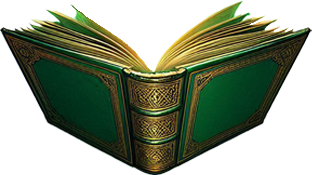
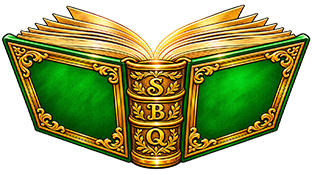
Update Grim Book artwork and paginate DM roster

diff --git a/components/homepage-activity-board.tsx b/components/homepage-activity-board.tsx
@@ -1,7 +1,7 @@
 "use client";
 
 import Link from "next/link";
-import { useMemo, useState } from "react";
+import { useMemo, useState, useSyncExternalStore } from "react";
 import { SearchIcon } from "@/components/search-icon";
 import { TwoRowScrollableGrid } from "@/components/two-row-scrollable-grid";
 
@@ -37,6 +37,50 @@ type DmRow = {
 };
 
 const MIN_VISIBLE_ACTIVITY_ROWS = 10;
+// Keep this breakpoint in sync with the single-column DM grid in globals.css.
+const dmRosterMobileQuery = "(max-width: 860px)";
+
+function subscribeToDmRosterWidth(onChange: () => void) {
+  const media = window.matchMedia(dmRosterMobileQuery);
+  media.addEventListener("change", onChange);
+  return () => media.removeEventListener("change", onChange);
+}
+
+function RosterPagination({
+  label,
+  page,
+  totalPages,
+  onPageChange,
+}: {
+  label: string;
+  page: number;
+  totalPages: number;
+  onPageChange: (page: number) => void;
+}) {
+  if (totalPages <= 1) return null;
+
+  return (
+    <nav className="inline-actions" aria-label={label}>
+      <button
+        className="button button-secondary button-small"
+        type="button"
+        disabled={page === 1}
+        onClick={() => onPageChange(page - 1)}
+      >
+        Previous
+      </button>
+      <span aria-live="polite">Page {page} of {totalPages}</span>
+      <button
+        className="button button-secondary button-small"
+        type="button"
+        disabled={page === totalPages}
+        onClick={() => onPageChange(page + 1)}
+      >
+        Next
+      </button>
+    </nav>
+  );
+}
 
 function filterPlayerRows(rows: PlayerRow[], query: string) {
   const normalized = query.trim().toLowerCase();
@@ -246,27 +290,12 @@ export function CharacterRosterGrid({
         </div>
       )}
 
-      {totalPages > 1 && (
-        <nav className="inline-actions" aria-label="Agent roster pagination">
-          <button
-            className="button button-secondary button-small"
-            type="button"
-            disabled={currentPage === 1}
-            onClick={() => setPage(currentPage - 1)}
-          >
-            Previous
-          </button>
-          <span aria-live="polite">Page {currentPage} of {totalPages}</span>
-          <button
-            className="button button-secondary button-small"
-            type="button"
-            disabled={currentPage === totalPages}
-            onClick={() => setPage(currentPage + 1)}
-          >
-            Next
-          </button>
-        </nav>
-      )}
+      <RosterPagination
+        label="Agent roster pagination"
+        page={currentPage}
+        totalPages={totalPages}
+        onPageChange={setPage}
+      />
 
       {showDivider ? (
         <img
@@ -286,11 +315,21 @@ export function HomepageDmActivityCard({
 }) {
   const [dmSearch, setDmSearch] = useState("");
   const [dmSearchDraft, setDmSearchDraft] = useState("");
+  const [page, setPage] = useState(1);
+  const singleColumn = useSyncExternalStore(
+    subscribeToDmRosterWidth,
+    () => window.matchMedia(dmRosterMobileQuery).matches,
+    () => true,
+  );
 
   const filteredDms = useMemo(
     () => filterDmRows(dmRoster, dmSearch),
     [dmRoster, dmSearch]
   );
+  const pageSize = singleColumn ? 2 : 6;
+  const totalPages = Math.max(1, Math.ceil(filteredDms.length / pageSize));
+  const currentPage = Math.min(page, totalPages);
+  const visibleDms = filteredDms.slice((currentPage - 1) * pageSize, currentPage * pageSize);
 
   return (
     <section className="card ledger-panel stack homepage-dm-activity-card">
@@ -304,6 +343,7 @@ export function HomepageDmActivityCard({
           onSubmit={(event) => {
             event.preventDefault();
             setDmSearch(dmSearchDraft);
+            setPage(1);
           }}
         >
           <input
@@ -319,10 +359,10 @@ export function HomepageDmActivityCard({
           </button>
         </form>
 
-        <TwoRowScrollableGrid className="homepage-dm-roster-grid">
-          {filteredDms.length ? (
-            filteredDms.map((row) => (
-              <article key={row.id} className="homepage-dm-roster-card" data-two-row-grid-item>
+        <div className="homepage-dm-roster-grid">
+          {visibleDms.length ? (
+            visibleDms.map((row) => (
+              <article key={row.id} className="homepage-dm-roster-card">
                 {row.profileImagePath ? (
                   <img
                     alt={`${row.name} profile`}
@@ -359,7 +399,13 @@ export function HomepageDmActivityCard({
           ) : (
             <div className="empty">No dungeon masters match your search.</div>
           )}
-        </TwoRowScrollableGrid>
+        </div>
+        <RosterPagination
+          label="DM roster pagination"
+          page={currentPage}
+          totalPages={totalPages}
+          onPageChange={setPage}
+        />
       </div>
     </section>
   );

diff --git a/app/page.tsx b/app/page.tsx
@@ -170,7 +170,7 @@ export default async function HomePage({ searchParams }: {
             <img
               alt="Hire a SPELLBOOK DM icon"
               className="homepage-character-log-icon"
-              src="/grim-book.png"
+              src="/grim-book.png?v=2"
             />
             <strong>
               Hire a <RainbowSpellbook /> DM

diff --git a/app/store/page.tsx b/app/store/page.tsx
@@ -186,7 +186,7 @@ export default async function StorePage() {
               alt=""
               aria-hidden="true"
               className="store-publishing-button-logo"
-              src="/grim-book.png"
+              src="/grim-book.png?v=2"
             />
             Visit SPELLBOOK Publishing
           </a>

diff --git a/components/site-header.tsx b/components/site-header.tsx
@@ -87,7 +87,7 @@ export function SiteHeader({
                 alt=""
                 aria-hidden="true"
                 className="site-store-button-icon"
-                src="/grim-book.png"
+                src="/grim-book.png?v=2"
               />
               STORE
             </Link>
